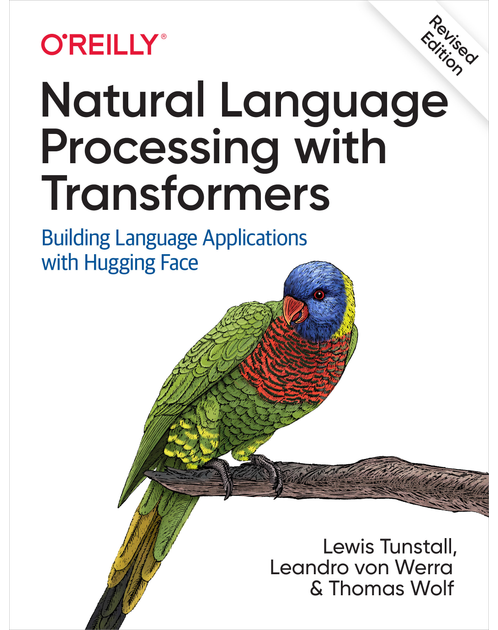
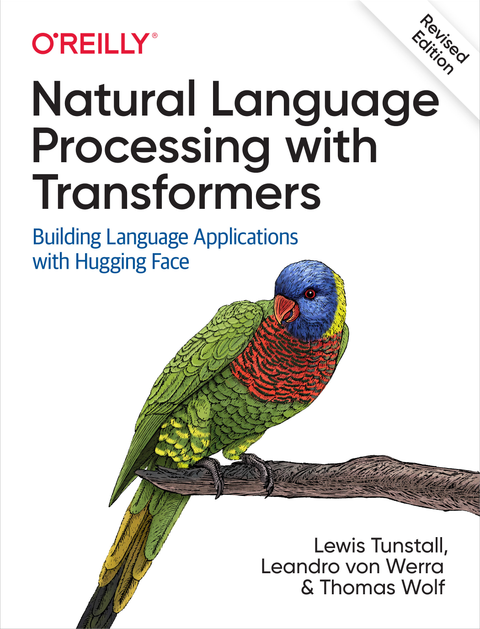
Update book cover image styling to reduce max-width for "Natural Language Processing with Transformers" and "Machine Learning with PyTorch and Scikit-Learn" in books.md

diff --git a/books.md b/books.md
@@ -9,7 +9,7 @@ As an avid reader and lifelong learner, I find immense value in books that deepe
 ## [Natural Language Processing with Transformers, Revised Edition](https://www.oreilly.com/library/view/natural-language-processing/9781098136789/)
 **Authors**: Lewis Tunstall, Leandro von Werra, Thomas Wolf
 
-![Natural Language Processing with Transformers Book Cover](images/book_covers/nlp_with_transformers.png){: style="max-width: 500px; height: auto;" alt="Book cover showing the title 'Natural Language Processing with Transformers' by Lewis Tunstall, Leandro von Werra, and Thomas Wolf"}
+![Natural Language Processing with Transformers Book Cover](images/book_covers/nlp_with_transformers.png){: style="max-width: 350px; height: auto;" alt="Book cover showing the title 'Natural Language Processing with Transformers' by Lewis Tunstall, Leandro von Werra, and Thomas Wolf"}
 
 Transformers have redefined the landscape of natural language processing (NLP) since their introduction in 2017. They are now the dominant architecture for achieving state-of-the-art results in various NLP tasks. If you're a data scientist, coder, or AI enthusiast, this practical guide is an excellent resource for mastering transformer models using **Hugging Face Transformers**, one of the most popular Python-based deep learning libraries.
 
@@ -32,7 +32,7 @@ Buy the book on [O'Reilly](https://www.oreilly.com/library/view/natural-language
 ## [Machine Learning with PyTorch and Scikit-Learn](https://www.packtpub.com/en-us/product/machine-learning-with-pytorch-and-scikit-learn-9781801819312)
 **Authors**: Sebastian Raschka, Yuxi (Hayden) Liu, Vahid Mirjalili
 
-![Machine Learning with PyTorch and Scikit-Learn Book Cover](images/book_covers/ml_with_pt_scikit.jpg){: style="max-width: 500px; height: auto;" alt="Book cover showing the title 'Machine Learning with PyTorch and Scikit-Learn' by Sebastian Raschka, Yuxi (Hayden) Liu, and Vahid Mirjalili"}
+![Machine Learning with PyTorch and Scikit-Learn Book Cover](images/book_covers/ml_with_pt_scikit.jpg){: style="max-width: 350px; height: auto;" alt="Book cover showing the title 'Machine Learning with PyTorch and Scikit-Learn' by Sebastian Raschka, Yuxi (Hayden) Liu, and Vahid Mirjalili"}
 
 This book is a cornerstone resource for anyone aiming to dive deep into the realms of machine learning (ML) and deep learning (DL) using PyTorch. Known for its practical approach, it combines theoretical foundations with hands-on examples, helping readers transition from understanding concepts to applying them in real-world scenarios.
 
